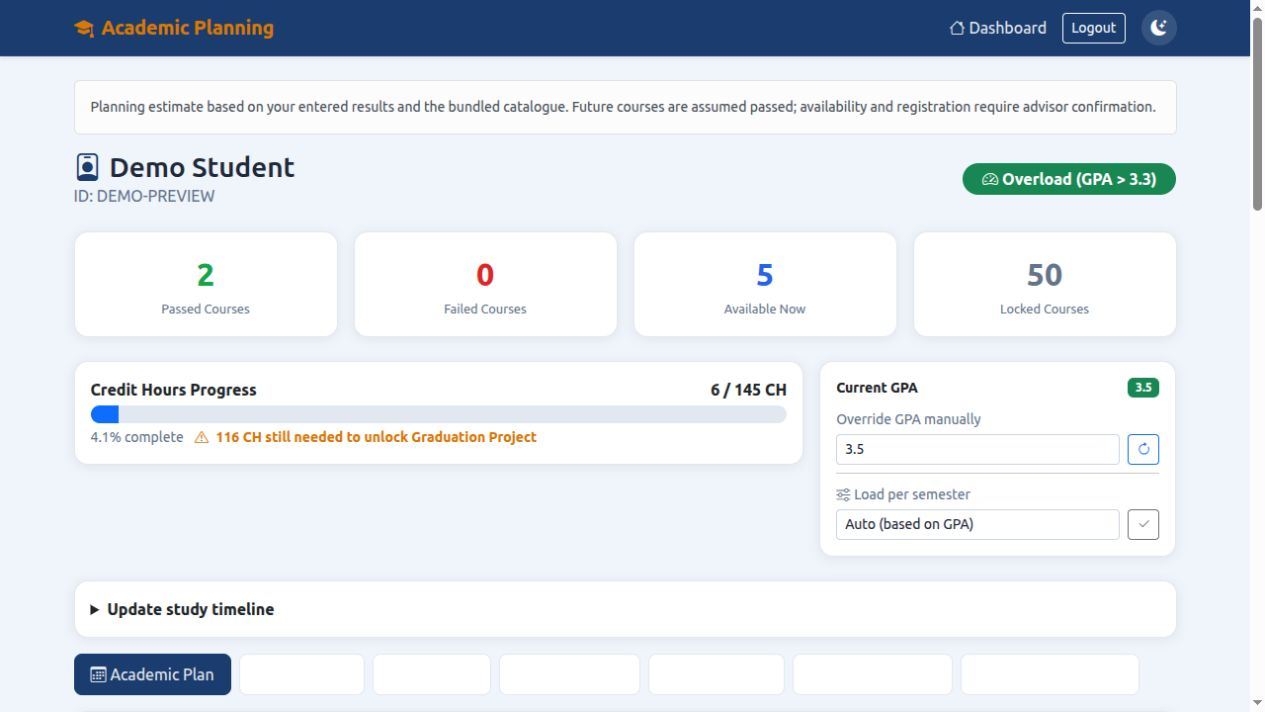
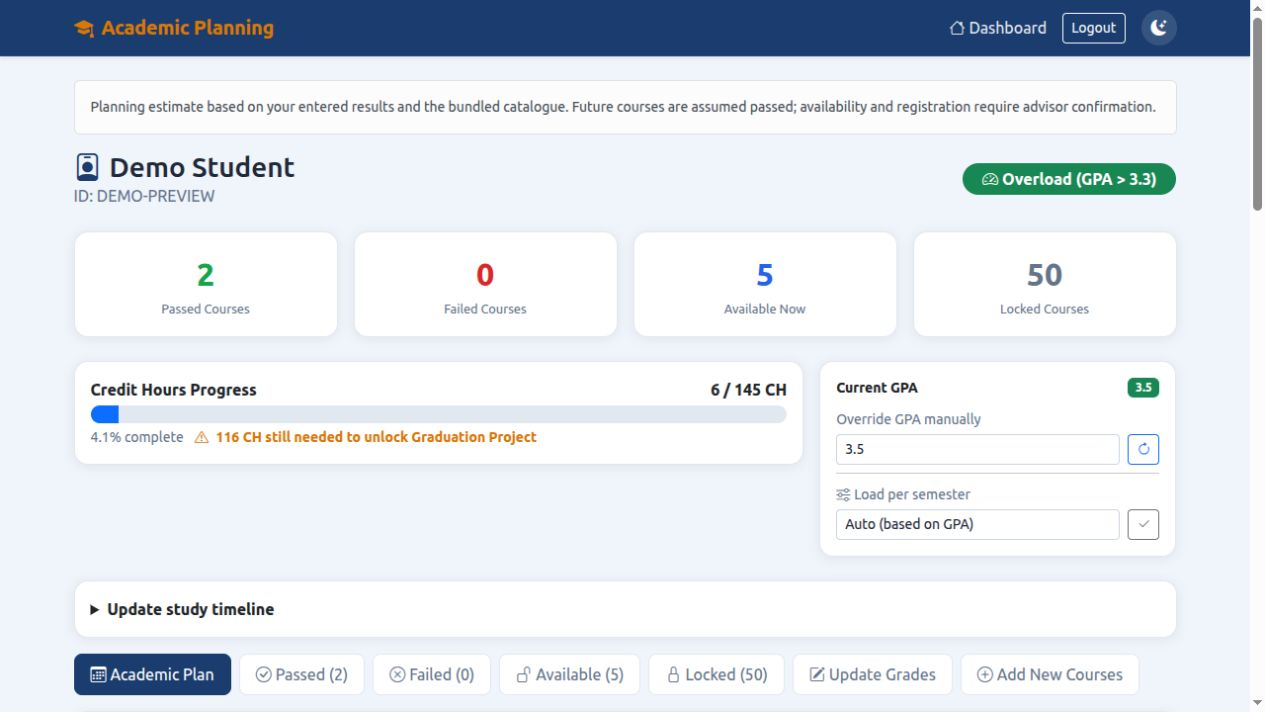
Improve dashboard contrast and document passing verification

diff --git a/templates/base.html b/templates/base.html
@@ -320,10 +320,7 @@
   [data-theme="dark"] .text-dark { color: var(--text) !important; }
   [data-theme="dark"] small { color: var(--text-muted); }
   /* Fix inline-style overrides: card-header with hardcoded background colors */
-  [data-theme="dark"] .card-header[style*="background:var(--primary)"] { color: #fff !important; }
-  [data-theme="dark"] .card-header[style*="background:linear-gradient"] { color: #fff !important; }
   /* Fix Add New Courses card header in dark mode */
-  [data-theme="dark"] .card-header[style*="#1e3a5f"] { color: #fff !important; }
   /* Fix badge-hours and sem-footer in dark mode */
   [data-theme="dark"] .badge-hours { background: var(--surface-2); color: var(--text-muted); border-color: var(--border); }
   /* Fix pill-code and pill-ch text in dark mode */
@@ -340,8 +337,6 @@
   [data-theme="dark"] .section-nav .nav-link.active { background: var(--tab-active-bg) !important; color: #fff !important; border-color: var(--tab-active-bg); }
   [data-theme="dark"] .section-nav .nav-link i { color: inherit; }
   /* Light mode: ensure text on colored card-headers is visible */
-  [data-theme="light"] .card-header[style*="background:var(--primary)"],
-  [data-theme="light"] .card-header[style*="background:linear-gradient"] { color: #fff !important; }
 
   /* Light mode explicit fixes for visibility */
   [data-theme="light"] .card-header { color: var(--text); }

diff --git a/docs/VERIFICATION.md b/docs/VERIFICATION.md
@@ -1,0 +1,13 @@
+# Verification
+
+Verified on 20 November 2026.
+
+- Local: 41 pytest tests passed on Python 3.10.
+- GitHub Actions: 41 tests passed on each of Python 3.10 and 3.12 in [run 44822307895](https://github.com/rashwan26/academic-planning/actions/runs/44822307895).
+- Browser: created a fictional student, entered passing/failing grades, generated the roadmap, changed a failing grade to B through the dashboard, and observed GPA recalculate from 2.00 to 3.50.
+- Visual review: checked dashboard and roadmap; fixed unreadable light-theme tab and header colors.
+- Publication check: student JSON files, session keys, caches and environment secrets are excluded from Git and the downloadable archive. Screenshots contain fictional data.
+
+The automated suite tests all remaining-course coverage, prerequisite order, graduation-project eligibility, credit limits, summer limits, determinism, complete transcripts, varying transcripts, authentication, password storage, privacy, input validation, CSRF, grade persistence, timeline advancement and CSV export.
+
+This does not verify official academic policy, live course availability, optimal graduation time or a production deployment. See PLANNING.md for the model's assumptions.

diff --git a/README.md b/README.md
@@ -35,6 +35,8 @@ On Windows, activate with `.venv\Scripts\activate` instead. Open [localhost:5000
 
 Accounts belong to this local app. It does not connect to a university portal or validate a registration number against an official student directory. Use a separate password, rather than your university password. No real student records or demo passwords are distributed in the repository.
 
+![Course roadmap preview with fictional student data](docs/plan-preview.png)
+
 ## Planning model
 
 | Rule | Behavior |
@@ -70,7 +72,7 @@ Legacy records from the supplied name-only login have no password hash and canno
 
 ## Verification
 
-41 automated tests pass locally. Browser checks exercised registration, plan generation and grade updates with fictional data. No official curriculum or real student account was used.
+41 automated tests pass locally and in [GitHub Actions on Python 3.10 and 3.12](https://github.com/rashwan26/academic-planning/actions/runs/44822307895). Browser checks exercised registration, plan generation and grade updates with fictional data. No official curriculum or real student account was used.
 
 ## Tests
 
